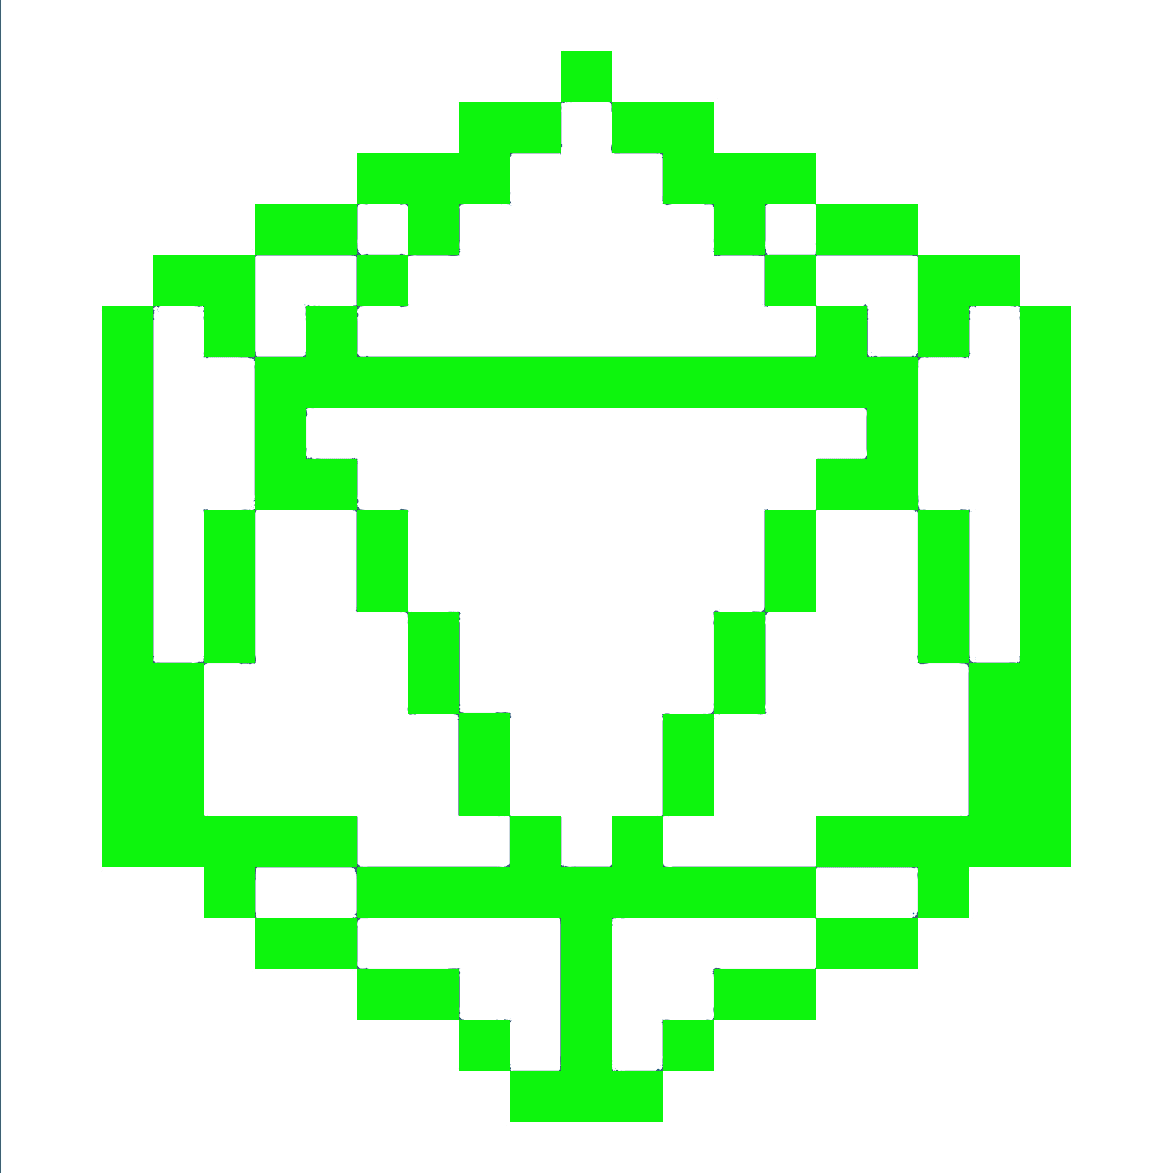
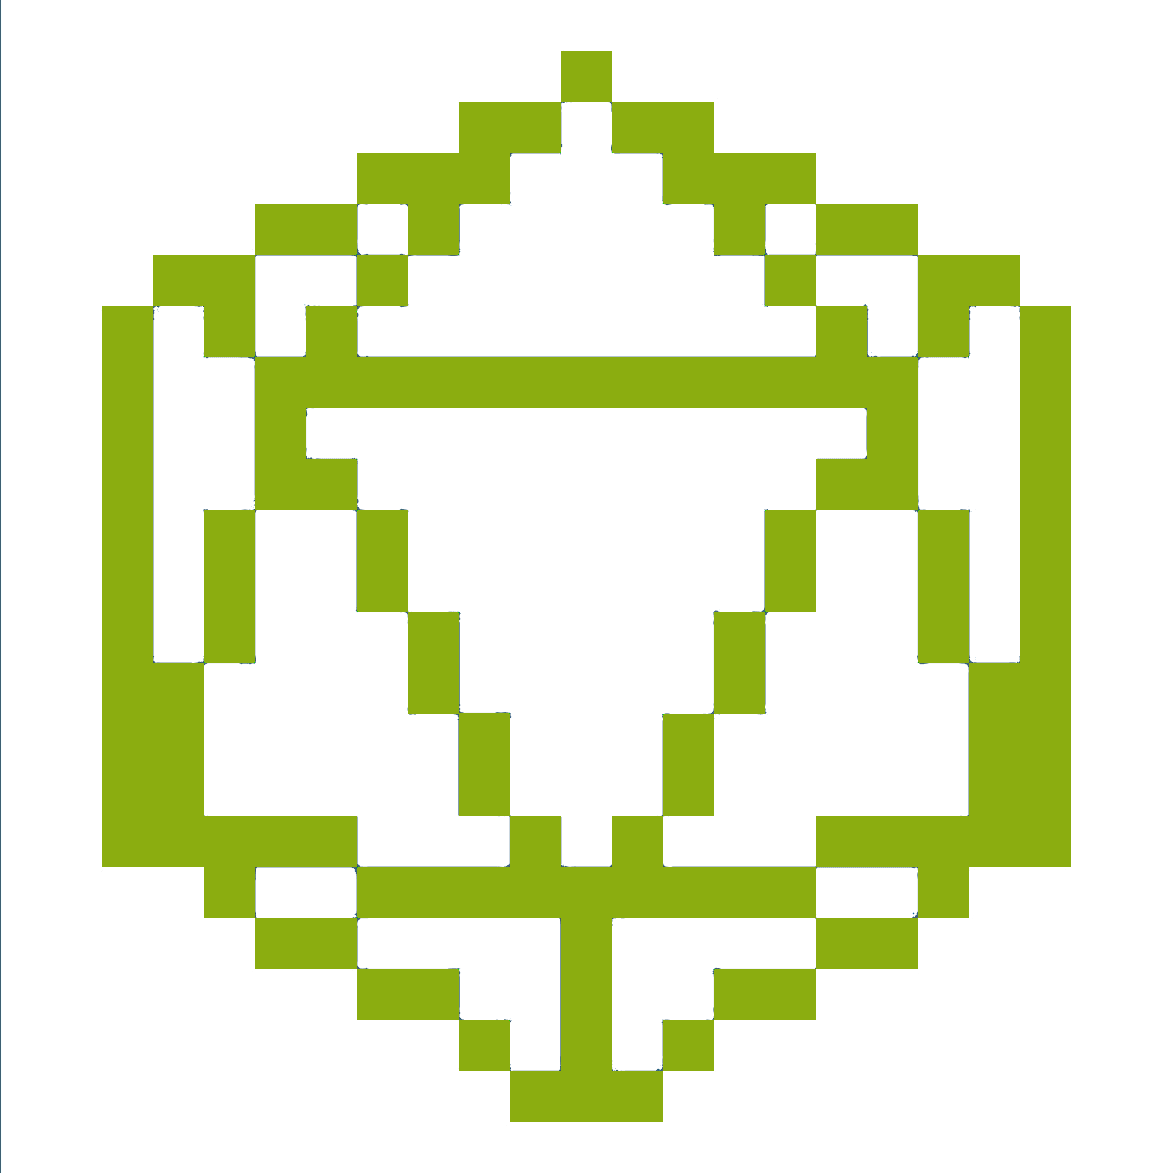
player update

Changed region(s): [[0.0614, 0.0307, 0.9207, 0.9821]]

diff --git a/src/page2/style2.css b/src/page2/style2.css
@@ -1,13 +1,13 @@
 html,body{
-    background-color: rgb(19, 19, 19);
+    background-color: #0f380f;
     user-select: none;
 }
 #header{
-    color:rgb(13, 245, 13);
+    color:#8bac0f;
     align-items: center;
     justify-content: center;
     text-align: center;
-    border-color:rgb(13, 245, 13) ;
+    color: #9bbc0f;
     border-style: solid;
 }
 #dice{
@@ -15,10 +15,10 @@ html,body{
     width: auto;
 }
 #saida{
-    color:rgb(13, 245, 13);
+    color: #9bbc0f;
 }
 #footer{
-    color:rgb(13, 245, 13);
+    color:#8bac0f;
     bottom: 0;
     position: fixed;
     width: 100%;
@@ -53,14 +53,14 @@ html,body{
     transform: scale(1.1);
 }
 #setas{
-    gap: 300px;
+    gap: 30px;
     margin-top: 150px;
     text-align: center;
     justify-content: center;
     display:flex;
     flex-direction: row;
     font-size: 50px;
-    color:rgb(13, 245, 13);
+    color: #9bbc0f;
 }
 .st{ 
     transition: transform 0.3s;
@@ -69,4 +69,10 @@ html,body{
 .st:hover{
     z-index: 10;
     transform: scale(1.1);
+}
+
+#knight{
+    height: 60px;
+    border-style: solid;
+    border-color: #9bbc0f;
 }

diff --git a/src/style.css b/src/style.css
@@ -1,13 +1,13 @@
 html,body{
-    background-color: rgb(19, 19, 19);
+    background-color: #0f380f;
     user-select: none;
 }
 #header{
-    color:rgb(13, 245, 13);
+    color:#8bac0f;
     align-items: center;
     justify-content: center;
     text-align: center;
-    border-color:rgb(13, 245, 13) ;
+    color: #9bbc0f;
     border-style: solid;
 }
 #dice{
@@ -15,10 +15,10 @@ html,body{
     width: auto;
 }
 #saida{
-    color:rgb(13, 245, 13);
+    color: #9bbc0f;
 }
 #footer{
-    color:rgb(13, 245, 13);
+    color:#8bac0f;
     bottom: 0;
     position: fixed;
     width: 100%;

diff --git a/src/page2/pagina2.html b/src/page2/pagina2.html
@@ -20,6 +20,7 @@
     <div id="selecao-container">
         <div id="setas">
             <div id="seta1" onclick="playSound()" class="st">◄</div>
+            <img id="knight" src="../../public/knight.png" alt="cavaleiro">
             <div id="seta2" onclick="playSound()" class="st">►</div>
         </div>
     </div>
